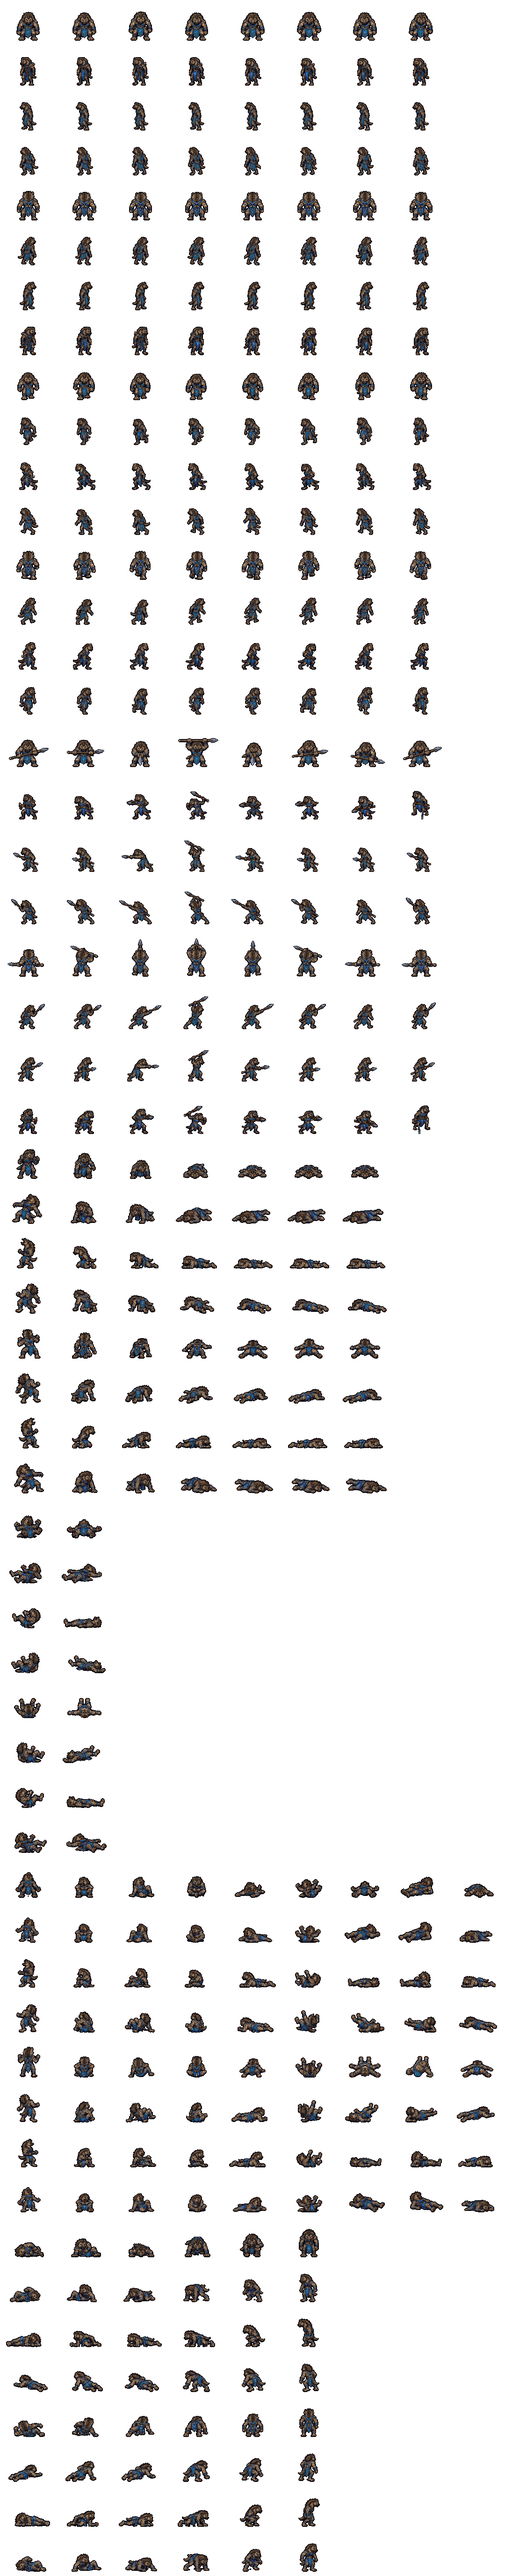
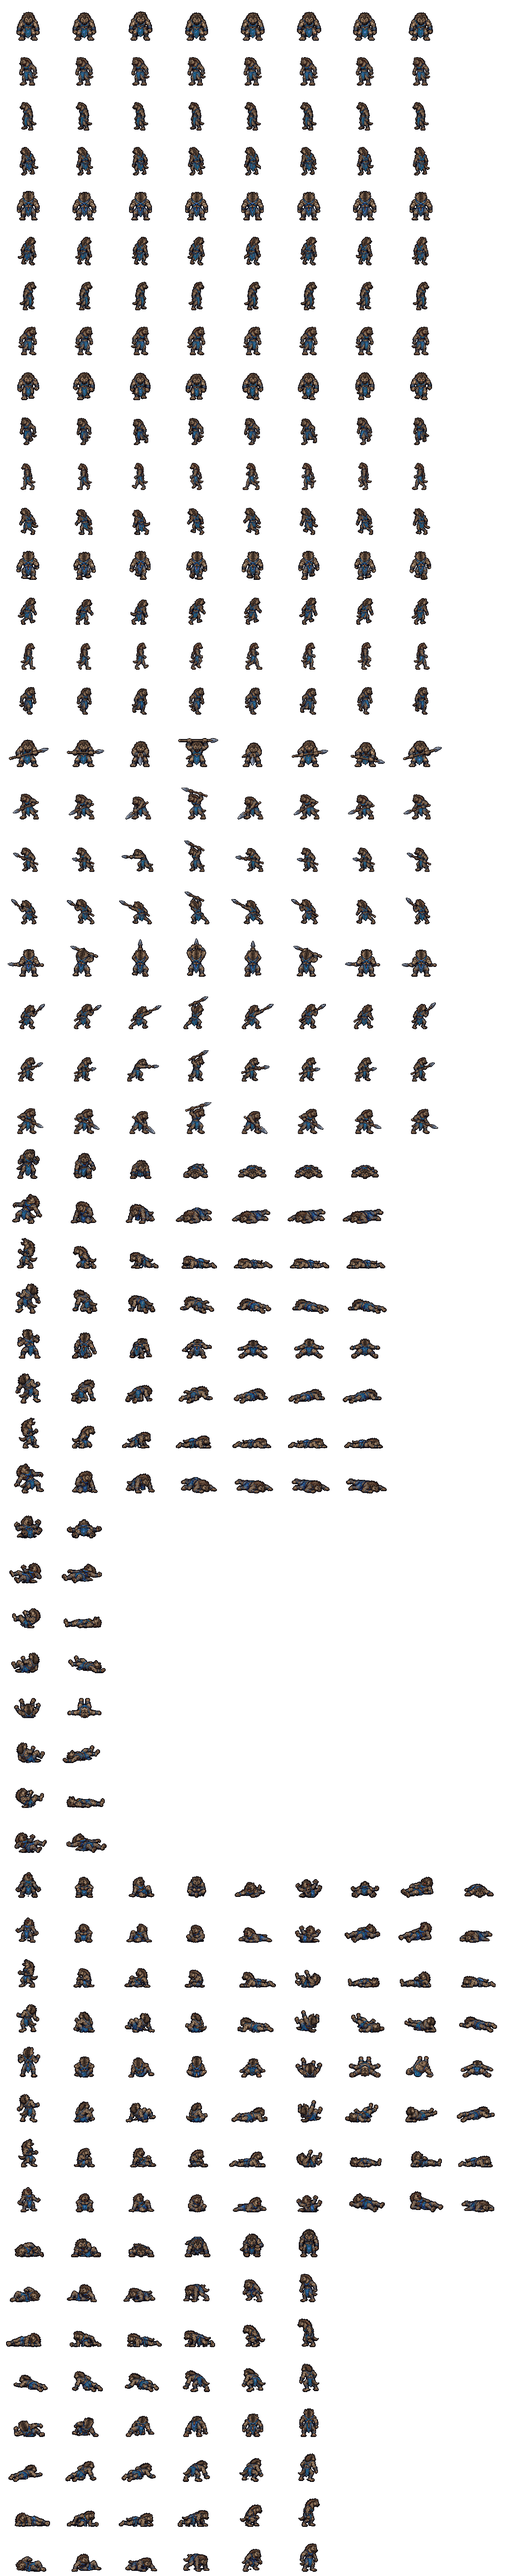
DEEP16 art: the gnoll's last rows -- SE's idle and attack and E's walk from ART-29 supplement 2; no 09-28 row plays
tools/gnoll-sheet.py takes the art desk's two last pages (deep16/_src/gnoll/ART-29-LASTROWS/):
HEAD 1 PAGE 3 (SE Idle 8, Attack 8; SW mirrored) and HEAD 4 PAGE 3 (E Walk 8; W mirrored). Every
row of every view of gnoll_p2 and gloryseeker_p2 is now the art desk's; the 09-28 sheets are read
only for the old side walk's height (HEAD 1's and HEAD 4's walks are met to it) and as TONE's
colour. Griz passed them in the pane, old beside new: "They're good enough - land the new SE idle,
SE attack and E walk."

Same cut (sheetrows, CHAN 16, every number boxed); K by the idle on HEAD 1 PAGE 3, by the walk on
HEAD 4 PAGE 3; TONE per page. The E walk is a narrow profile: its area stands 0.92 of the E idle's,
inside the 0.88-0.94 the other views' walks keep. Both show benches: every row twice. The eyes row
eyes-gnoll-redraw-1015 (unseen) says every row is the art desk's now.

diff --git a/js/eyes.js b/js/eyes.js
@@ -244,7 +244,7 @@
       look: 'NEW BATTLE. Click Newland\'s road patrol: the panel has Formation LINE / COLUMN / SQUARE and two turn buttons (or Q and E), "set it free today" on Day 14; the bar and the chevron under the stack change with them. Put it in COLUMN and hover a march up the road: the shading reaches a hex further while it keeps to the road. Hover a march onto a gnoll band: the pop-up says their formation and facing and the side you come in on -- their FLANK (a class up) or their REAR (a class up, and nothing back in the first round). Resolve a day; on Day 15 change a unit\'s formation: the panel says half the day\'s move, and its reach shrinks; change it back and it costs nothing. Click a plains unit once they ride in (Day 16): the panel says the computer writes their orders. HOW IT PLAYS has the formation section.' },
     'eyes-gnoll-redraw-1015': { pri: 2, group: G2, title: 'The gnoll and the glory-seeker in all eight facings, with the art desk’s redraw (10-15)', pt: 'the bestiary §18 (tools/gnoll-sheet.py; deep16/art/gnoll_p2, gloryseeker_p2) · eyes',
       url: 'deep16/?gallery&shelf=creatures&rows=gnoll,gloryseeker&fresh=1',
-      look: 'The gnoll. The full stop turns it through all eight. Every row is ART-29’s but three old ones: SE’s (and SW’s) IDLE and ATTACK, and E’s (and W’s) WALK. S now faces you head-on for every row, N turns its back, NE and NW from behind, E and W a side view. Judge the turns: the same size and colour all round (ART-29 is toned to the old rows), and whether the three old rows read as a slimmer gnoll beside the new art. LAUGH in each facing (its nine poses play in your order in a fight), PRONE then GET UP, DEATH. L to the glory-seeker: the same frames, the cloth red. In a fight: deep16/?show=gnoll plays every row twice.' },
+      look: 'The gnoll. The full stop turns it through all eight: every row of every view is now the art desk’s (ART-29, its redraw and its last rows, which you passed 10-15) -- S faces you head-on, N turns its back, NE and NW from behind, E and W a side view, SE and SW three-quarter. Judge the turns: the same size and colour all round (ART-29 is toned to the old sheets’ colour). LAUGH in each facing (its nine poses play in your order in a fight), PRONE then GET UP, DEATH. L to the glory-seeker: the same frames, the cloth red. In a fight: deep16/?show=gnoll plays every row twice.' },
     'eyes-hyena-facings-1015': { pri: 2, group: G2, title: 'The hyena in all eight facings: the art desk’s ART-30 cut (10-15)', pt: 'the bestiary §20 (tools/hyena-sheet.py; deep16/art/hyena_p2) · eyes',
       url: 'deep16/?gallery&shelf=creatures&rows=hyena&fresh=1',
       look: 'The hyena. The full stop turns it through all eight: SE and SW, NE and NW drawn new for every row (IDLE, WALK, ATTACK the bite, FLINCH, HURT the death, ROFL); E and W the old side rows; S and N their own FLINCH, death and ROFL, their IDLE, WALK and ATTACK still the old front and back stills, bobbed -- but a quarter bigger now, the same animal as the diagonals (they had been scaled to the side idle’s height, and the side idle drops its head). Judge the turns S to SE to E to NE to N: one size, one colour (ART-30 is toned to the old rows; it drew warmer and brighter). ROFL in each facing, ten frames straight, where E and W still roll their old six there and back: NE and NW are the shallow roll the art desk flagged, on its side with the hind legs flung over (your “spine injury hyena”, 10-15, seen in the seat’s tab) -- its re-roll asked of the art desk (your “1 ask”, art-wanted §11). The death’s last frames lie a pixel or two below where it stood, as drawn. The mirror hyena (the Harbinger’s) wears the same frames at 1.25. In a fight: deep16/?show=hyena plays every row twice, a joke told to make it roll.' },

diff --git a/deep16/data/sprites.js b/deep16/data/sprites.js
@@ -3098,7 +3098,7 @@
 }
 },
 "gloryseeker_p2": {
-"image": "art/gloryseeker_p2.png?v=24f3dfed9a",
+"image": "art/gloryseeker_p2.png?v=6469b15baf",
 "fw": 120,
 "fh": 96,
 "ax": 60,
@@ -3169,7 +3169,7 @@
 "fps": 8
 }
 },
-"source": "generated by Griz (2026-09-28: SE's idle and attack, E's walk) and the art desk (2026-10-15, ART-29 and its redraw: every other row of every view), cut and snapped by tools/gnoll-sheet.py, the cloth recoloured to the Desert tribe's red"
+"source": "drawn by the art desk (2026-10-15, ART-29, its redraw and its last rows: every row of every view) after Griz's generated sheets of 2026-09-28 (their colour kept), cut and snapped by tools/gnoll-sheet.py, the cloth recoloured to the Desert tribe's red"
 },
 "gnoll_p1": {
 "image": "art/gnoll_p1.png?v=1d9ced48a0",
@@ -3209,7 +3209,7 @@
 }
 },
 "gnoll_p2": {
-"image": "art/gnoll_p2.png?v=19e9aa759d",
+"image": "art/gnoll_p2.png?v=af9fd9e806",
 "fw": 120,
 "fh": 96,
 "ax": 60,
@@ -3280,7 +3280,7 @@
 "fps": 8
 }
 },
-"source": "generated by Griz (2026-09-28: SE's idle and attack, E's walk) and the art desk (2026-10-15, ART-29 and its redraw: every other row of every view), cut and snapped by tools/gnoll-sheet.py, the Hills' blue as drawn"
+"source": "drawn by the art desk (2026-10-15, ART-29, its redraw and its last rows: every row of every view) after Griz's generated sheets of 2026-09-28 (their colour kept), cut and snapped by tools/gnoll-sheet.py, the Hills' blue as drawn"
 },
 "goblin_p1": {
 "image": "art/goblin_p1.png?v=ec72303092",

diff --git a/deep16/index.html b/deep16/index.html
@@ -77,7 +77,7 @@
 <script src="js/art.js?v=e1ce4cf012"></script>
 <script src="data/cavern.js?v=647c1a184a"></script>
 <script src="data/maps.js?v=971b4fe9e6"></script>
-<script src="data/sprites.js?v=a9f7784bb0"></script>
+<script src="data/sprites.js?v=e823f8d223"></script>
 <script src="js/sprites.js?v=82883d13a8"></script>
 <script src="js/save.js?v=65142ffd7b"></script>
 <script src="data/spells.js?v=84aed2ba83"></script>
@@ -143,7 +143,7 @@
 <script src="js/embed.js?v=fde3abdebd"></script>
 <script src="js/show.js?v=5489ad2601"></script>
 <script src="js/skyshow.js?v=7151daab7a"></script>
-<script src="../js/eyes.js?v=0445714759"></script>
+<script src="../js/eyes.js?v=e618859eee"></script>
 <script src="js/onegallery.js?v=175d0ae3bd"></script>
 <script src="js/main.js?v=39cd8f6139"></script>
 </body>

diff --git a/tools/gnoll-sheet.py b/tools/gnoll-sheet.py
@@ -31,8 +31,10 @@ and its redraw (2026-10-15, Griz's pick after our return: deep16/_src/gnoll/ART-
   H1P2  ART-29_HEAD-1_PAGE-2.png  SE: the rows of H2P2 (the old sheet's SE Death, Prone, Get Up and Laugh were the 09-28 drawings, short)
   H3P2  ART-29_HEAD-3_PAGE-2.png  S:  Idle 8, Walk 8, Attack 8 (the old "front still" S played was drawn three-quarter, the muzzle right)
   H5P2  ART-29_HEAD-5_PAGE-2.png  N:  Idle 8, Walk 8, Attack 8 (the old back views, a slimmer gnoll)
-Of the old sheets only page 1's SE Idle and Attack and its side Walk (E) still play, as the manifests keep them (the old page 2 feeds
-nothing now). Every other facing of every row is ART-29's (build() prints which view each facing plays). The pages are cut by their labels
+and its last rows (2026-10-15, his "so the last old gnoll rows go": deep16/_src/gnoll/ART-29-LASTROWS/) --
+  H1P3  ART-29_HEAD-1_PAGE-3.png  SE: Idle 8, Attack 8
+  H4P3  ART-29_HEAD-4_PAGE-3.png  E:  Walk 8 (met, as HEAD 1's walk is, to the old side walk's height)
+No row plays from the old sheets now: page 1 is read for that walk height and as TONE's colour reference, page 2 not at all. Every other facing of every row is ART-29's (build() prints which view each facing plays). The pages are cut by their labels
 (sheetrows, the CHAN test), scaled each by its standing rows (K, in build()), toned to the old page 1's fur and cloth (TONE, in build()),
 and placed as the old rows are; the attack row's frames are 16 px taller (TALL: the N overhead thrust on the glory-seeker).
 """
@@ -80,6 +82,7 @@ CHAN = 16     # figure: any channel 17 or more off the navy (the default test ke
               # own navy varies 5-12 at most, the feet's drop shadow 8-16, the outline 24 and more)
 A29 = os.path.join('gnoll', 'ART-29')
 A29R = os.path.join('gnoll', 'ART-29-REDRAW')
+A29L = os.path.join('gnoll', 'ART-29-LASTROWS')
 ART29 = {
     'H1P1': dict(file=os.path.join(A29, 'ART-29_HEAD-1_PAGE-1.png'), text=[(0, 340, 150, 390)],
                  rows=[('walk', (150, 200, 2079, 532), (533, 570), NUM(8))]),
@@ -126,6 +129,12 @@ ART29 = {
                  rows=[('idle', (150, 40, 1855, 249), (249, 277), NUM(8)),
                        ('walk', (150, 290, 1855, 502), (502, 531), NUM(8)),
                        ('attack', (0, 535, 1855, 787), (786, 813), NUM(8))]),     # (from x 0: Attack 1's spear head reaches x 106)
+    # the last rows (10-15, ART-29 supplement 2, his "so the last old gnoll rows go": deep16/_src/gnoll/ART-29-LASTROWS/, its ART-29-LASTROWS-MANIFEST.md)
+    'H1P3': dict(file=os.path.join(A29L, 'ART-29_HEAD-1_PAGE-3.png'), text=[(0, 188, 140, 234), (0, 506, 168, 548)],
+                 rows=[('idle', (180, 70, 2079, 336), (338, 373), NUM(8)),
+                       ('attack', (175, 371, 2079, 652), (656, 690), NUM(8))]),   # (Attack 4's spear tip at y 374, over the Idle's numbers)
+    'H4P3': dict(file=os.path.join(A29L, 'ART-29_HEAD-4_PAGE-3.png'), text=[(0, 338, 133, 382)],
+                 rows=[('walk', (0, 150, 1983, 565), (568, 607), NUM(8))]),       # (from x 0: Walk 1's tail reaches x 125, under the label)
 }
 FIT29 = {('H3P1', 'death')}     # (a row scaled apart from its page: build())
 # a line of pixels cleared (sheetrows' CUT): the E page's Laugh 8 lies with its sole against Laugh 9's toes (x 1530-1531, y 800-818)
@@ -305,8 +314,6 @@ def build(name, recolour):
     H = HEIGHT[name]
     rows1 = {k: frames_in(P1, BG1, *v) for k, v in B1.items()}
     stand1 = np.mean([im.size[1] for im in rows1['idle']]) / H        # page 1's rows, by the idle row's height
-    side = lambda ims, row: [place(a, torso_x(a), 0, *TALL.get(row, (FH, AY))) for a in (fit(im, stand1, recolour) for im in ims)]
-    old = {r: side(rows1[r], r) for r in ('idle', 'walk', 'attack')}       # SE's idle and attack, E's walk
     mirror = lambda seq: [fr[:, ::-1].copy() for fr in seq]
 
     # ART-29 (10-15): every page at its own scale (GPT drew each at its own size), the gnoll the old rows' way -- on its torso, its lowest pixel on
@@ -315,7 +322,7 @@ def build(name, recolour):
     # tall as the idle it rises into.
     cuts = cuts29()
     walk_h = np.mean([im.size[1] for im in rows1['walk']]) / stand1        # the old side walk at game size
-    K = {L: float(np.mean([hgt(im) for _, im, _ in cuts[L]['walk']])) / walk_h if L == 'H1P1' else
+    K = {L: float(np.mean([hgt(im) for _, im, _ in cuts[L]['walk']])) / walk_h if L in ('H1P1', 'H4P3') else
             float(np.median([hgt(im) for _, im, _ in cuts[L]['idle']])) / H if 'idle' in cuts[L] else hgt(cuts[L]['getup'][5][1]) / H for L in ART29}
     # FIT29: a row GPT drew bigger than its page -- HEAD 3's Death: its Death 1 stands 1.18 of its Get Up 6, the other views' 1.03-1.07 (and its
     # head, ear to ear, a tenth wider than Get Up 6's): scaled so that ratio is theirs
@@ -338,18 +345,20 @@ def build(name, recolour):
                                                             ', '.join('%s %s %.3f' % (L, row, k) for (L, row), k in KR.items())))
     late = lambda L: {'hurt': L, 'prone': L, 'getup': L, 'laugh': L}           # a page of Death (it plays as `hurt`), Prone, Get Up, Laugh
     stand = lambda L: {'idle': L, 'walk': L, 'attack': L}
-    view = {'HEAD1': dict(late('H1P2'), walk='H1P1'), 'HEAD2': dict(late('H2P2'), **stand('H2P1')), 'HEAD3': dict(late('H3P1'), **stand('H3P2')),
-            'HEAD4': dict(late('H4P2'), idle='H4P1', attack='H4P1'), 'HEAD5': dict(late('H5P1'), **stand('H5P2'))}
+    view = {'HEAD1': dict(late('H1P2'), walk='H1P1', idle='H1P3', attack='H1P3'), 'HEAD2': dict(late('H2P2'), **stand('H2P1')),
+            'HEAD3': dict(late('H3P1'), **stand('H3P2')), 'HEAD4': dict(late('H4P2'), idle='H4P1', attack='H4P1', walk='H4P3'),
+            'HEAD5': dict(late('H5P1'), **stand('H5P2'))}
     got = lambda v, row: new[(view[v][row], 'death' if row == 'hurt' else row)]
 
-    # the facings (S, SW, W, NW, N, NE, E, SE), RULED 10-14 (a figure is five drawn views; SE mirrors to SW, E to W, NE to NW): every row ART-29's
-    # but SE's idle and attack (the old three-quarter rows) and E's walk (the old side walk), as its manifest and the redraw's keep them
+    # the facings (S, SW, W, NW, N, NE, E, SE), RULED 10-14 (a figure is five drawn views; SE mirrors to SW, E to W, NE to NW): every row of every
+    # view ART-29's. The 09-28 sheets play nothing now: page 1 is read for the old side walk's height (HEAD 1's and HEAD 4's walks are met to it)
+    # and for TONE's colour
     frames = {'idle': [], 'walk': [], 'attack': [], 'hurt': [], 'laugh': [], 'prone': [], 'getup': []}
     took = {r: [] for r in frames}
     for f in range(8):
         v = {0: 'HEAD3', 4: 'HEAD5', 1: 'HEAD1', 7: 'HEAD1', 3: 'HEAD2', 5: 'HEAD2', 2: 'HEAD4', 6: 'HEAD4'}[f]
         for row in frames:
-            seq, src = (got(v, row), v) if row in view[v] else (old[row], 'old')
+            seq, src = got(v, row), v
             if f in (1, 2, 3):
                 seq, src = mirror(seq), src + 'm'
             frames[row].append(seq); took[row].append(src)
@@ -368,8 +377,8 @@ def build(name, recolour):
     meta = json.load(open(meta_p))
     meta['anims']['idle']['fps'] = 5; meta['anims']['walk']['fps'] = 10; meta['anims']['attack']['fps'] = 12; meta['anims']['hurt']['fps'] = 8
     meta['anims']['prone']['fps'] = 8; meta['anims']['getup']['fps'] = 8; meta['anims']['laugh']['fps'] = 6   # (the laugh's own beats are grimoire.js M.LAUGH's; fps is for a plain play)
-    meta['source'] = ('generated by Griz (2026-09-28: SE\'s idle and attack, E\'s walk) and the art desk (2026-10-15, ART-29 and its redraw: '
-                      'every other row of every view), cut and snapped by tools/gnoll-sheet.py') + (', the cloth recoloured to the Desert tribe\'s red' if recolour else ', the Hills\' blue as drawn')
+    meta['source'] = ('drawn by the art desk (2026-10-15, ART-29, its redraw and its last rows: every row of every view) after Griz\'s generated '
+                      'sheets of 2026-09-28 (their colour kept), cut and snapped by tools/gnoll-sheet.py') + (', the cloth recoloured to the Desert tribe\'s red' if recolour else ', the Hills\' blue as drawn')
     json.dump(meta, open(meta_p, 'w'), indent=1)
 
 
